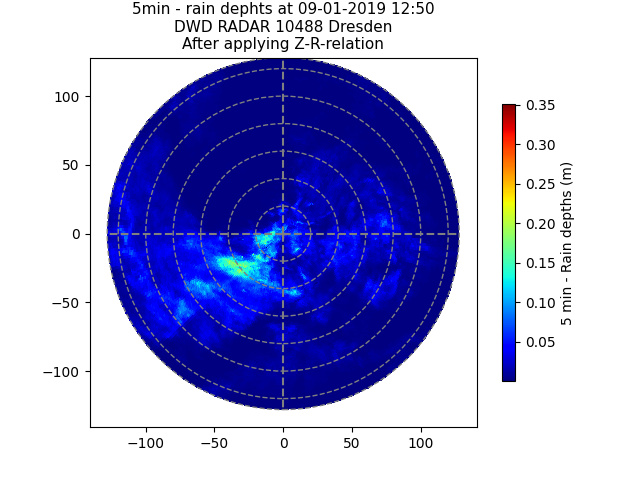
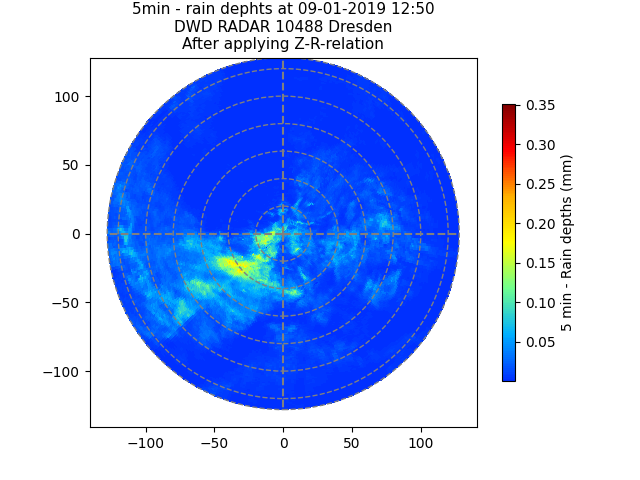
Add own colorbar in functions.

diff --git a/code/func.py b/code/func.py
@@ -2,9 +2,9 @@ import matplotlib.pylab as pl
 import wradlib as wrl
 import wradlib.clutter as clutter
 
+from colorbar import cm
 
-
-def raw_plot(data, dt, filename):
+def plot_rawdata(data, dt, filename):
     """Plot reflectivity."""
     pl.figure(figsize=(10, 8))
     ax, im = wrl.vis.plot_ppi(data, cmap="viridis") # proj="cg"
@@ -18,7 +18,7 @@ def raw_plot(data, dt, filename):
 def clutter_gabella(data, dt, filename):
     """Clutter identification by Gabella et al. (2002). Clutter removal and data interpolation."""
     clmap = clutter.filter_gabella(data, wsize=5, thrsnorain=0., tr1=6., n_p=8, tr2=1.3)
-    fig = pl.figure(figsize=(10,8))
+    pl.figure(figsize=(10,8))
     ax, pm = wrl.vis.plot_ppi(clmap)
     ax = wrl.vis.plot_ppi_crosshair((0,0,0), ranges=[20,40,60,80,100,120,128])
     ax.set_title(f'Detected clutter at {dt.strftime("%d-%m-%Y %H:%M")}\nDWD RADAR 10488 Dresden\nAfter clutter correction', fontsize=11)
@@ -35,8 +35,7 @@ def clutter_gabella(data, dt, filename):
 
 def attenuation_corr(data_no_clutter, dt, filename):
     """Attenuation correction: Calculate integrated attenuation for each bin. Kraemer et al., 2008 and Jacobi et al., 2016"""
-    att = wrl.atten.correct_attenuation_constrained(data_no_clutter, a_max=1.67e-4, a_min=2.33e-5,
-                                                    n_a=100, b_max=0.7, b_min=0.65, n_b=6,
+    att = wrl.atten.correct_attenuation_constrained(data_no_clutter, a_max=1.67e-4, a_min=2.33e-5, n_a=100, b_max=0.7, b_min=0.65, n_b=6,
                                                     gate_length=1., constraints=[wrl.atten.constraint_dbz, wrl.atten.constraint_pia],
                                                     constraint_args=[[59.0],[20.0]])
     data_attcorr = data_no_clutter + att
@@ -60,13 +59,13 @@ def attenuation_corr(data_no_clutter, dt, filename):
     
     return att, data_attcorr
 
-def rain_depths(depths, dt, filename):
+def plot_raindepths(depths, dt, filename):
     """Plot rain depths."""
     pl.figure(figsize=(10, 8))
-    ax, im = wrl.vis.plot_ppi(depths, cmap="jet")
+    ax, im = wrl.vis.plot_ppi(depths, cmap=cm)
     ax = wrl.vis.plot_ppi_crosshair((0,0,0), ranges=[20,40,60,80,100,120,128])
     cbar = pl.colorbar(im, shrink=0.75)
-    cbar.set_label("5 min - Rain depths (m)")
+    cbar.set_label("5 min - Rain depths (mm)")
     pl.title(f'5min - rain dephts at {dt.strftime("%d-%m-%Y %H:%M")}\nDWD RADAR 10488 Dresden\nAfter applying Z-R-relation', fontsize=11)
     pl.savefig(f"images/radar_dx _drs_{filename[15:25]}_raindepths.png")
     return 0
